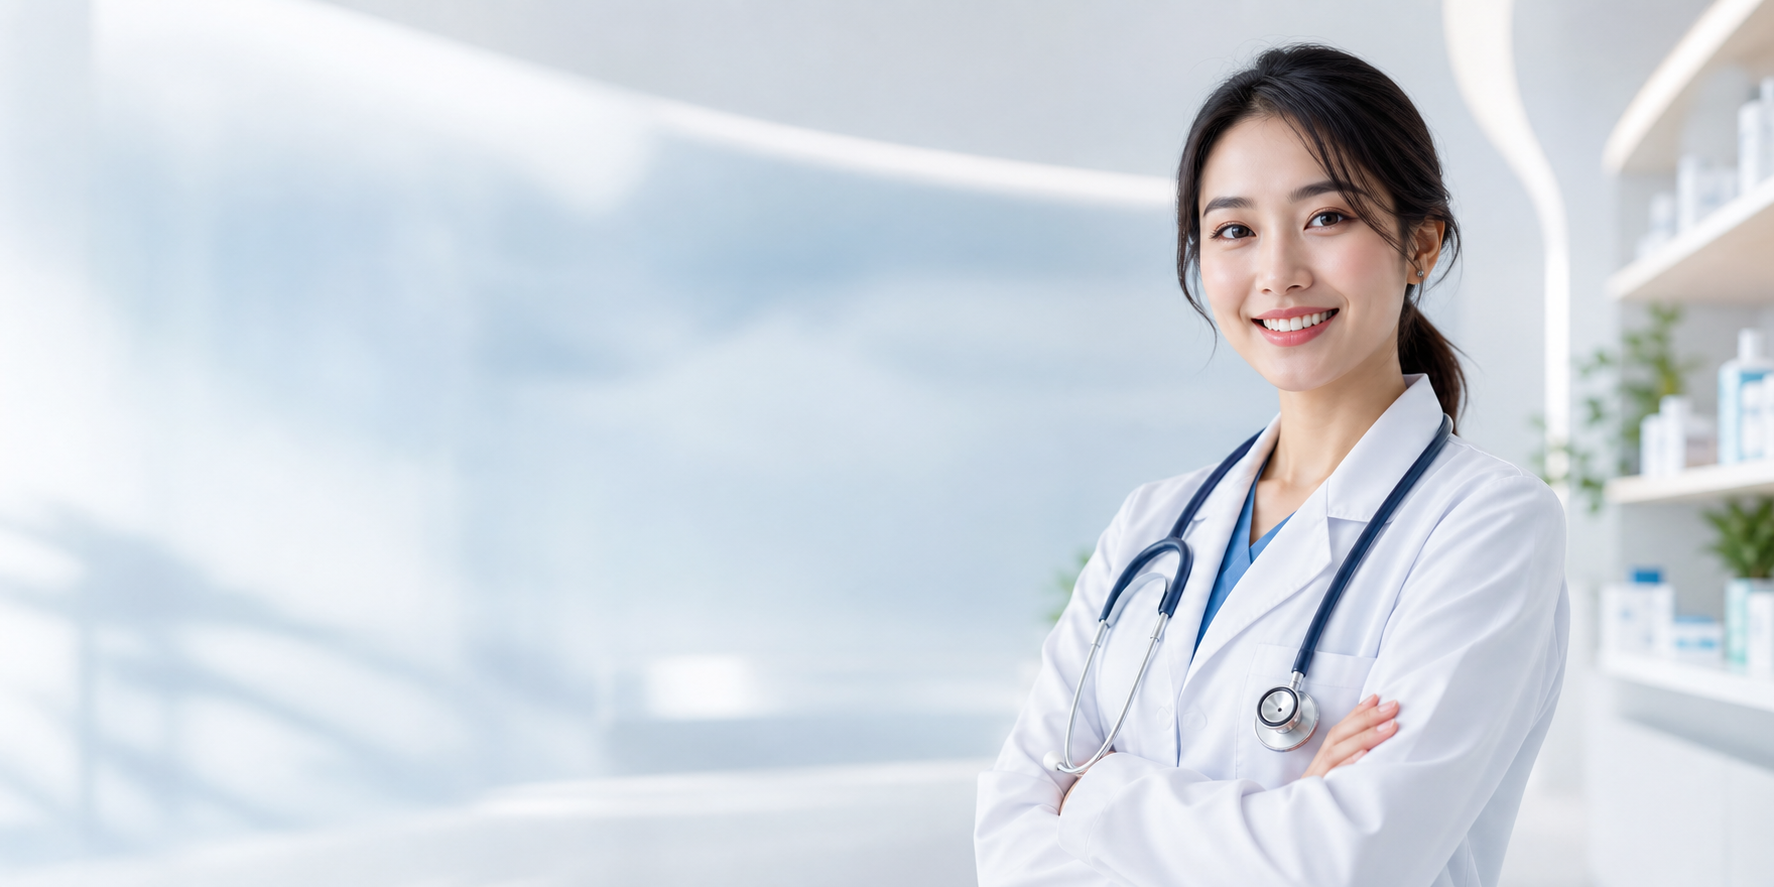
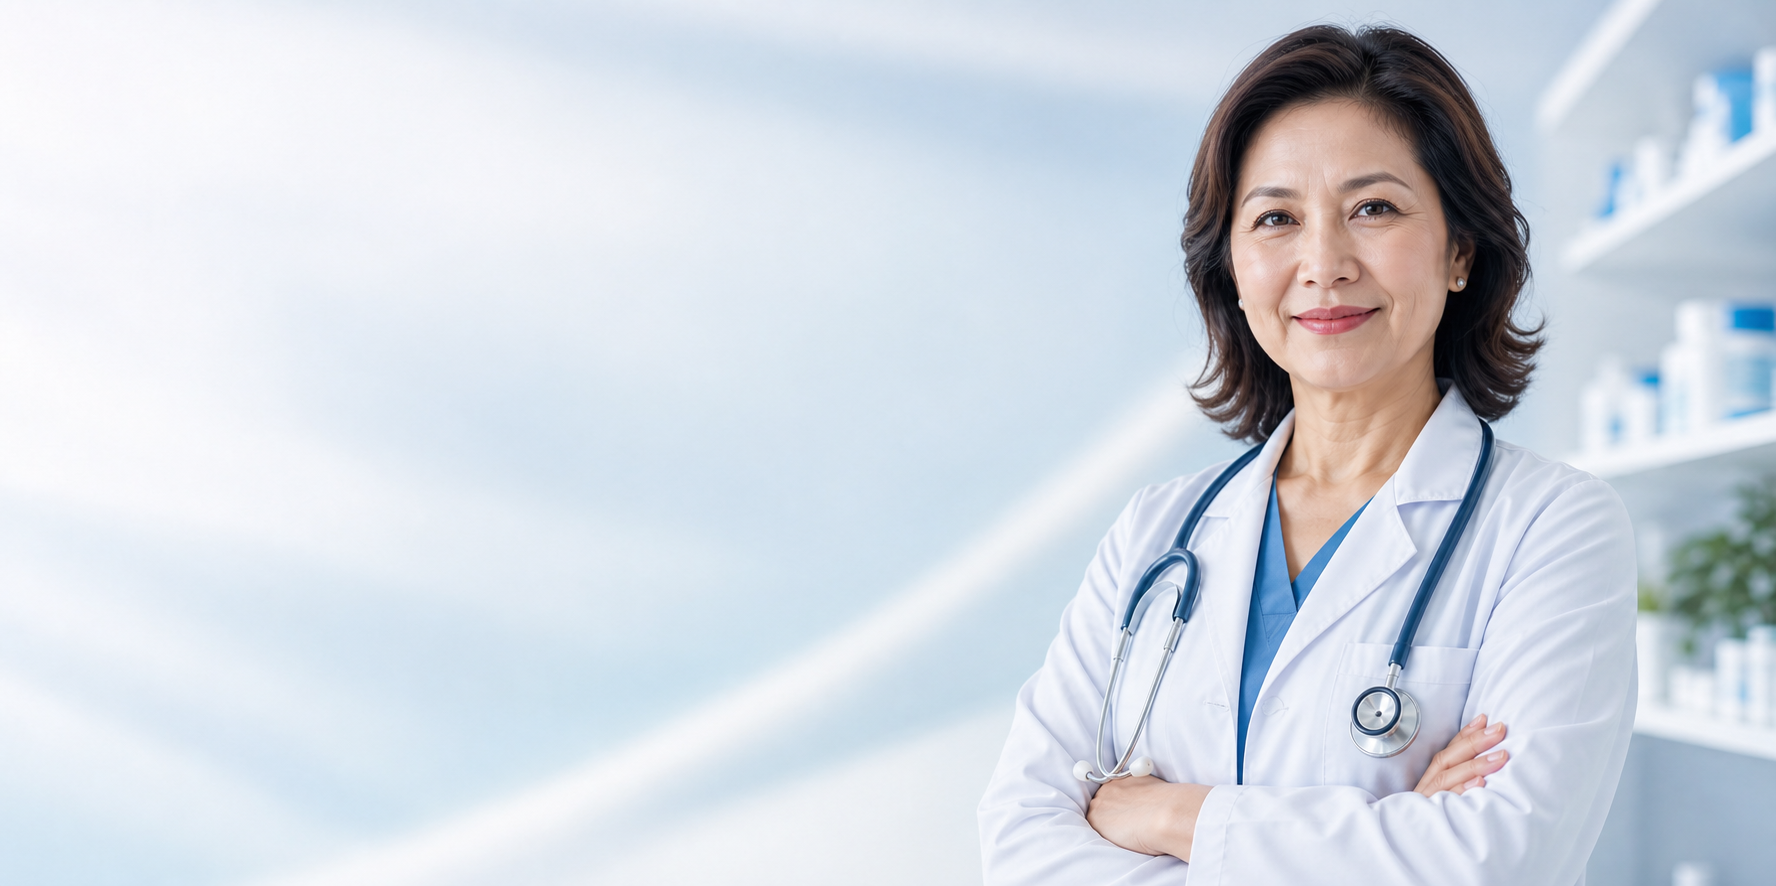
Đổi bác sĩ ảnh bìa sang trung niên

diff --git a/auth/login.html b/auth/login.html
@@ -6,7 +6,7 @@
   <meta name="description" content="Đăng nhập PharmaCare">
   <title>Đăng nhập - PharmaCare</title>
   <link rel="icon" href="../assets/img/favicon.svg" type="image/svg+xml">
-  <link rel="stylesheet" href="../assets/css/app.css?v=20260614-cover4">
+  <link rel="stylesheet" href="../assets/css/app.css?v=20260614-cover5">
 </head>
 <body class="auth-page">
   <main class="auth-shell">

diff --git a/auth/register.html b/auth/register.html
@@ -6,7 +6,7 @@
   <meta name="description" content="Đăng ký tài khoản PharmaCare">
   <title>Đăng ký - PharmaCare</title>
   <link rel="icon" href="../assets/img/favicon.svg" type="image/svg+xml">
-  <link rel="stylesheet" href="../assets/css/app.css?v=20260614-cover4">
+  <link rel="stylesheet" href="../assets/css/app.css?v=20260614-cover5">
 </head>
 <body class="auth-page">
   <main class="auth-shell">

diff --git a/index.html b/index.html
@@ -6,7 +6,7 @@
   <meta name="description" content="PharmaCare - nền tảng quản lý nhà thuốc cho doanh nghiệp tại Việt Nam.">
   <title>PharmaCare</title>
   <link rel="icon" href="assets/img/favicon.svg" type="image/svg+xml">
-  <link rel="stylesheet" href="assets/css/app.css?v=20260614-cover4">
+  <link rel="stylesheet" href="assets/css/app.css?v=20260614-cover5">
 </head>
 <body>
   <a class="skip-link" href="#content">Chuyển đến nội dung</a>

diff --git a/pages/ban-hang/pos.html b/pages/ban-hang/pos.html
@@ -5,7 +5,7 @@
   <meta name="viewport" content="width=device-width, initial-scale=1">
   <title>Bán hàng - PharmaCare</title>
   <link rel="icon" href="../../assets/img/favicon.svg" type="image/svg+xml">
-  <link rel="stylesheet" href="../../assets/css/app.css?v=20260614-cover4">
+  <link rel="stylesheet" href="../../assets/css/app.css?v=20260614-cover5">
 </head>
 <body class="app-body" data-requires-auth="true" data-roles="banthuoc,quanly,admin" data-nav="ban-hang" data-title="Bán hàng tại quầy">
   <div id="overlay" class="overlay"></div>

diff --git a/pages/bao-cao/tong-quan.html b/pages/bao-cao/tong-quan.html
@@ -5,7 +5,7 @@
   <meta name="viewport" content="width=device-width, initial-scale=1">
   <title>Báo cáo - PharmaCare</title>
   <link rel="icon" href="../../assets/img/favicon.svg" type="image/svg+xml">
-  <link rel="stylesheet" href="../../assets/css/app.css?v=20260614-cover4">
+  <link rel="stylesheet" href="../../assets/css/app.css?v=20260614-cover5">
 </head>
 <body class="app-body" data-requires-auth="true" data-roles="quanly,admin" data-nav="bao-cao" data-title="Báo cáo thống kê">
   <div id="overlay" class="overlay"></div>

diff --git a/pages/hoa-don/danh-sach.html b/pages/hoa-don/danh-sach.html
@@ -5,7 +5,7 @@
   <meta name="viewport" content="width=device-width, initial-scale=1">
   <title>Hóa đơn - PharmaCare</title>
   <link rel="icon" href="../../assets/img/favicon.svg" type="image/svg+xml">
-  <link rel="stylesheet" href="../../assets/css/app.css?v=20260614-cover4">
+  <link rel="stylesheet" href="../../assets/css/app.css?v=20260614-cover5">
 </head>
 <body class="app-body" data-requires-auth="true" data-roles="banthuoc,quanly,admin" data-nav="hoa-don" data-title="Quản lý hóa đơn">
   <div id="overlay" class="overlay"></div>

diff --git a/pages/kho/ton-kho.html b/pages/kho/ton-kho.html
@@ -5,7 +5,7 @@
   <meta name="viewport" content="width=device-width, initial-scale=1">
   <title>Kho hàng - PharmaCare</title>
   <link rel="icon" href="../../assets/img/favicon.svg" type="image/svg+xml">
-  <link rel="stylesheet" href="../../assets/css/app.css?v=20260614-cover4">
+  <link rel="stylesheet" href="../../assets/css/app.css?v=20260614-cover5">
 </head>
 <body class="app-body" data-requires-auth="true" data-roles="quanly,admin" data-nav="kho" data-title="Kho hàng và cảnh báo">
   <div id="overlay" class="overlay"></div>

diff --git a/pages/nhan-vien/danh-sach.html b/pages/nhan-vien/danh-sach.html
@@ -5,7 +5,7 @@
   <meta name="viewport" content="width=device-width, initial-scale=1">
   <title>Nhân viên - PharmaCare</title>
   <link rel="icon" href="../../assets/img/favicon.svg" type="image/svg+xml">
-  <link rel="stylesheet" href="../../assets/css/app.css?v=20260614-cover4">
+  <link rel="stylesheet" href="../../assets/css/app.css?v=20260614-cover5">
 </head>
 <body class="app-body" data-requires-auth="true" data-roles="quanly,admin" data-nav="nhan-vien" data-title="Quản lý nhân viên">
   <div id="overlay" class="overlay"></div>

diff --git a/pages/quan-tri/nguoi-dung.html b/pages/quan-tri/nguoi-dung.html
@@ -5,7 +5,7 @@
   <meta name="viewport" content="width=device-width, initial-scale=1">
   <title>Quản trị người dùng - PharmaCare</title>
   <link rel="icon" href="../../assets/img/favicon.svg" type="image/svg+xml">
-  <link rel="stylesheet" href="../../assets/css/app.css?v=20260614-cover4">
+  <link rel="stylesheet" href="../../assets/css/app.css?v=20260614-cover5">
 </head>
 <body class="app-body" data-requires-auth="true" data-roles="admin" data-nav="quan-tri" data-title="Quản trị người dùng">
   <div id="overlay" class="overlay"></div>

diff --git a/pages/san-pham/danh-muc.html b/pages/san-pham/danh-muc.html
@@ -5,7 +5,7 @@
   <meta name="viewport" content="width=device-width, initial-scale=1">
   <title>Danh mục sản phẩm - PharmaCare</title>
   <link rel="icon" href="../../assets/img/favicon.svg" type="image/svg+xml">
-  <link rel="stylesheet" href="../../assets/css/app.css?v=20260614-cover4">
+  <link rel="stylesheet" href="../../assets/css/app.css?v=20260614-cover5">
 </head>
 <body class="app-body" data-requires-auth="true" data-roles="banthuoc,quanly,admin" data-nav="san-pham" data-title="Danh mục sản phẩm">
   <div id="overlay" class="overlay"></div>

diff --git a/pages/tai-chinh/thu-chi.html b/pages/tai-chinh/thu-chi.html
@@ -5,7 +5,7 @@
   <meta name="viewport" content="width=device-width, initial-scale=1">
   <title>Tài chính - PharmaCare</title>
   <link rel="icon" href="../../assets/img/favicon.svg" type="image/svg+xml">
-  <link rel="stylesheet" href="../../assets/css/app.css?v=20260614-cover4">
+  <link rel="stylesheet" href="../../assets/css/app.css?v=20260614-cover5">
 </head>
 <body class="app-body" data-requires-auth="true" data-roles="quanly,admin" data-nav="tai-chinh" data-title="Quản lý tài chính">
   <div id="overlay" class="overlay"></div>

diff --git a/pages/tong-quan/admin.html b/pages/tong-quan/admin.html
@@ -5,7 +5,7 @@
   <meta name="viewport" content="width=device-width, initial-scale=1">
   <title>Tổng quan quản trị - PharmaCare</title>
   <link rel="icon" href="../../assets/img/favicon.svg" type="image/svg+xml">
-  <link rel="stylesheet" href="../../assets/css/app.css?v=20260614-cover4">
+  <link rel="stylesheet" href="../../assets/css/app.css?v=20260614-cover5">
 </head>
 <body class="app-body" data-requires-auth="true" data-roles="admin" data-nav="tong-quan" data-title="Tổng quan quản trị">
   <div id="overlay" class="overlay"></div>